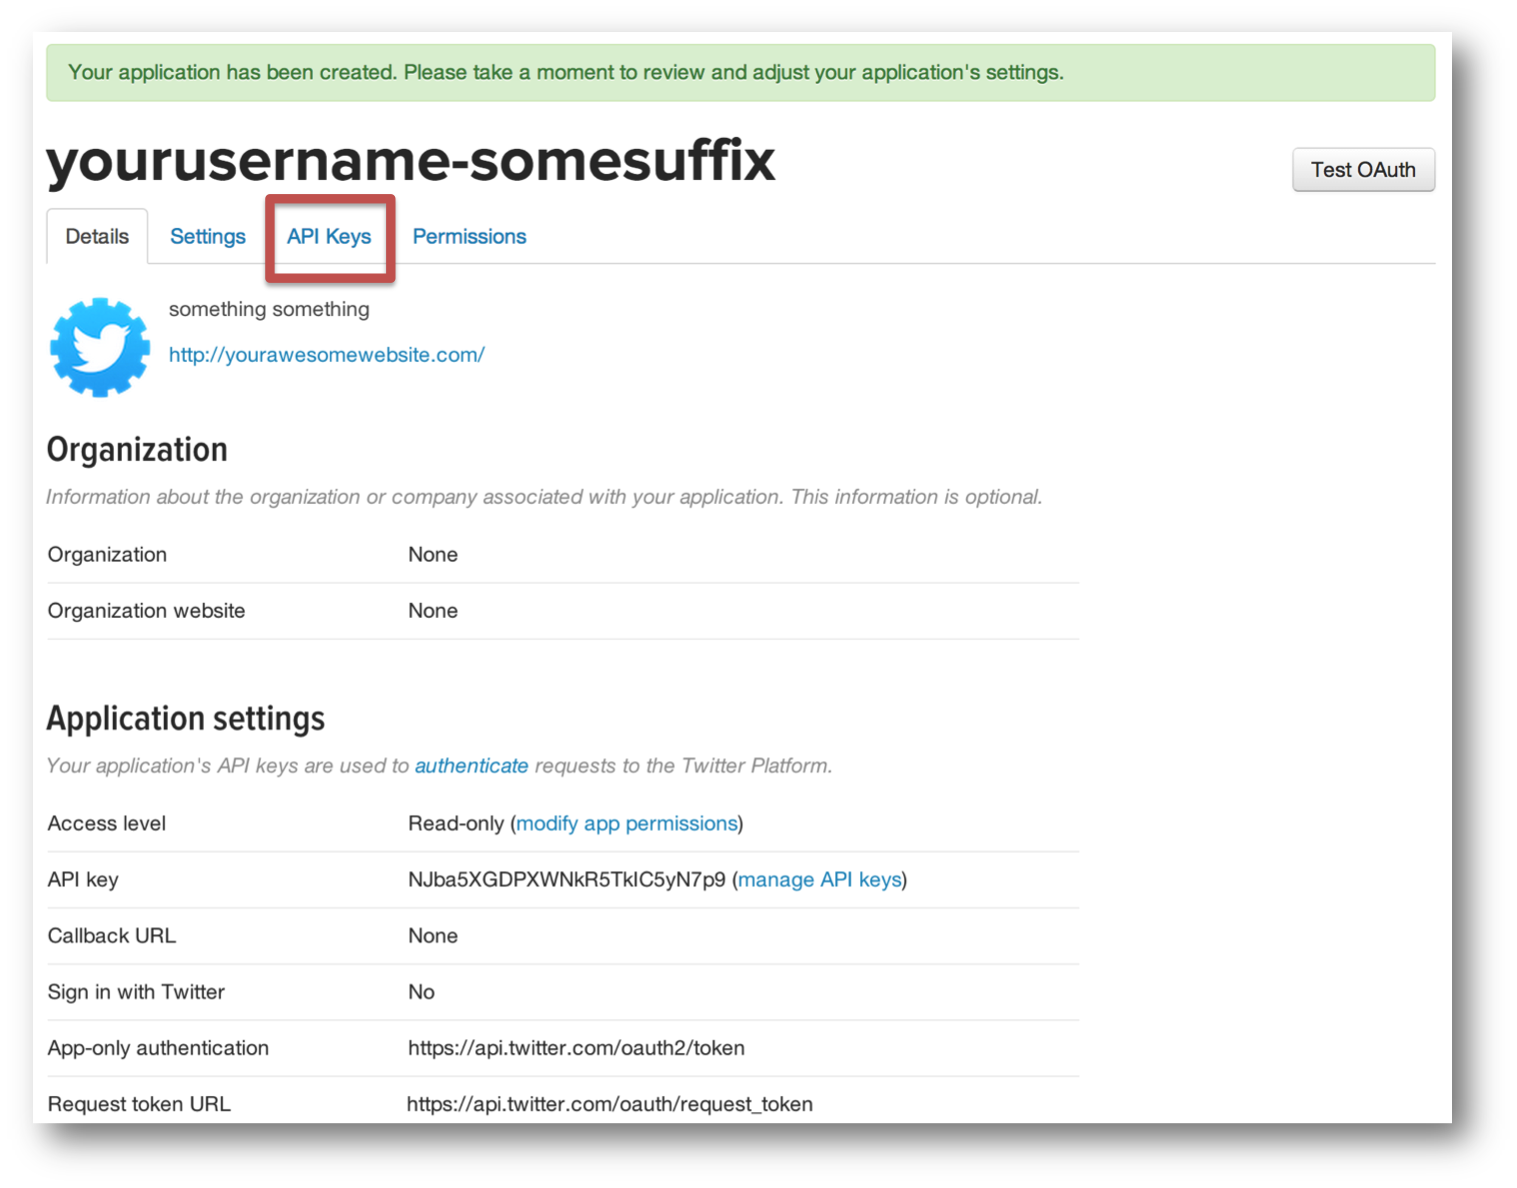
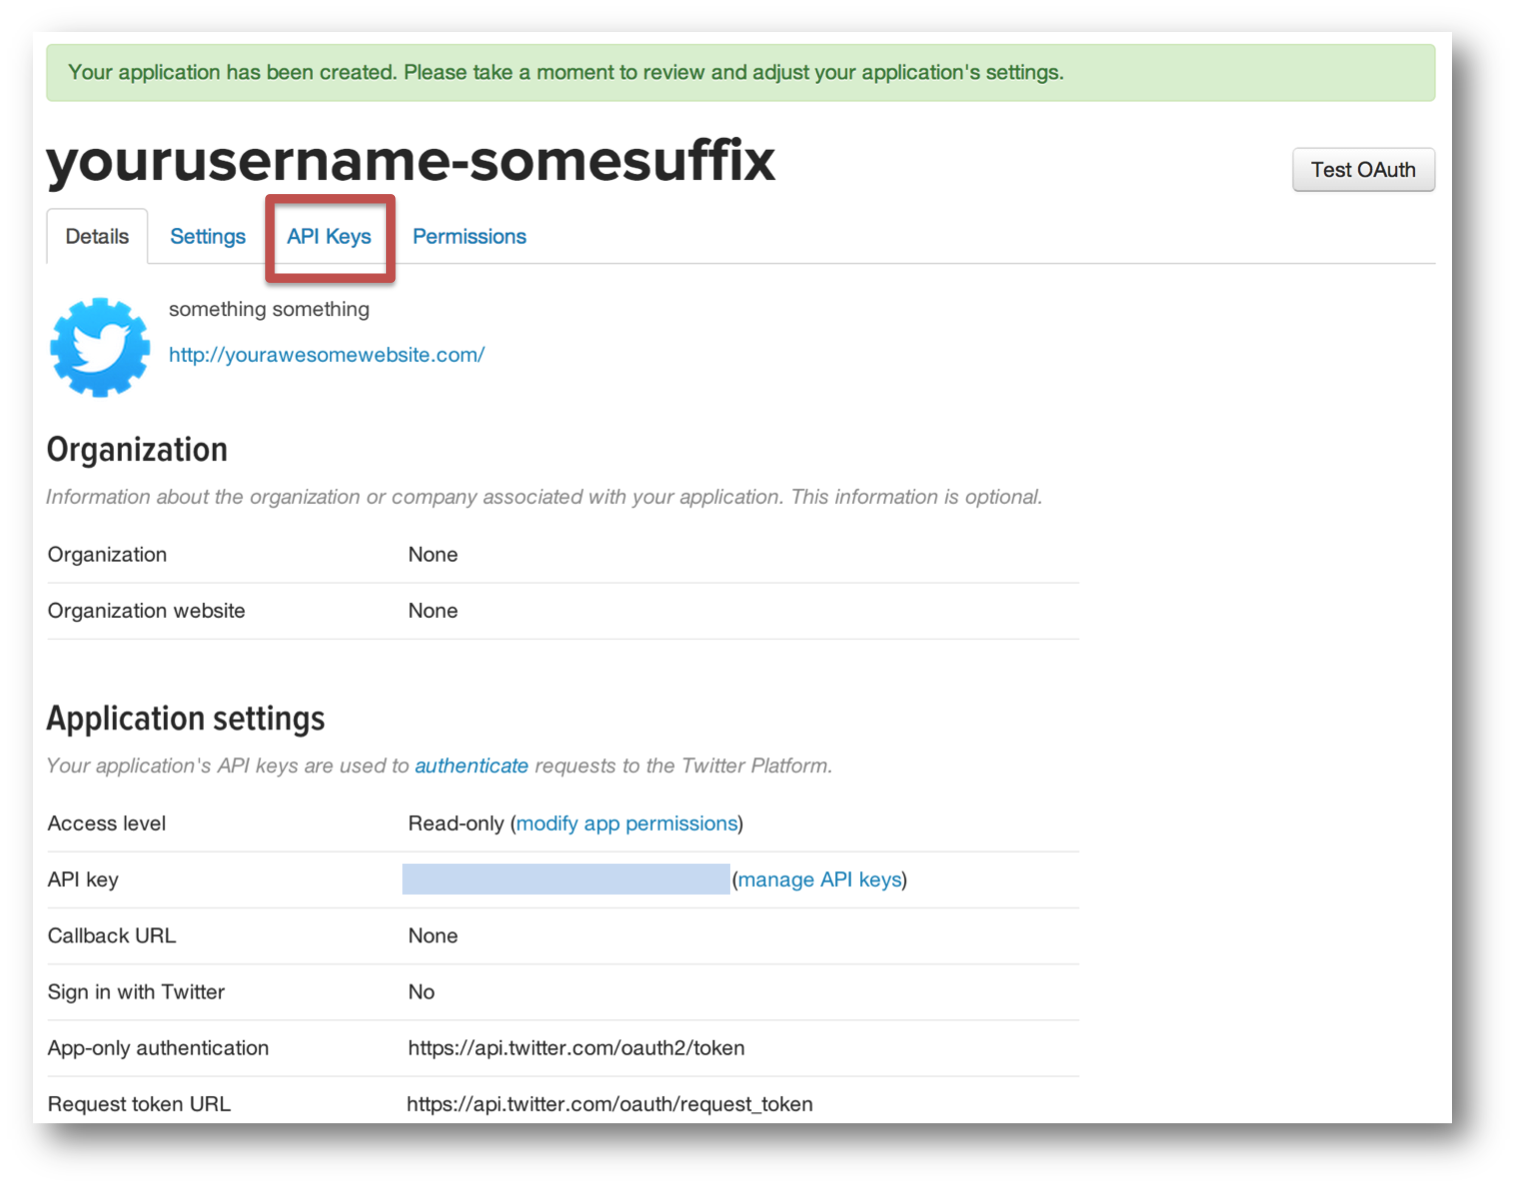
Minor doc updates to streaming tutorial.

Changed region(s): [[0.2479, 0.7163, 0.4957, 0.7786]]

diff --git a/ampcamp/realtime-processing-with-spark-streaming.md b/ampcamp/realtime-processing-with-spark-streaming.md
@@ -73,12 +73,13 @@ Since all of the exercises are based on Twitter's sample tweet stream, it is nec
 
     ![New application confirmation](img/twitter3.png)
 
-4. Finally, the page should look like the following. Note the API key + secret, 
-   and the Access Token and Access Token Secert.
+4. Finally, the page should look like the following. Notice the API Key, API Secret, Access Token and Access Token Secret.
+   We are going to use these 4 keys in the next section. After you have finished this tutorial, you can delete all these 
+   keys by following the instructions at the end of the tutorial.
 
     ![OAuth details](img/twitter4.png)
 
-5.  We are going to use these 4 values in the next section. After you have finished this tutorial, you can delete all these keys by following the instructions at the end of the tutorial.
+5. 
 
 
 ## First Spark Streaming program
